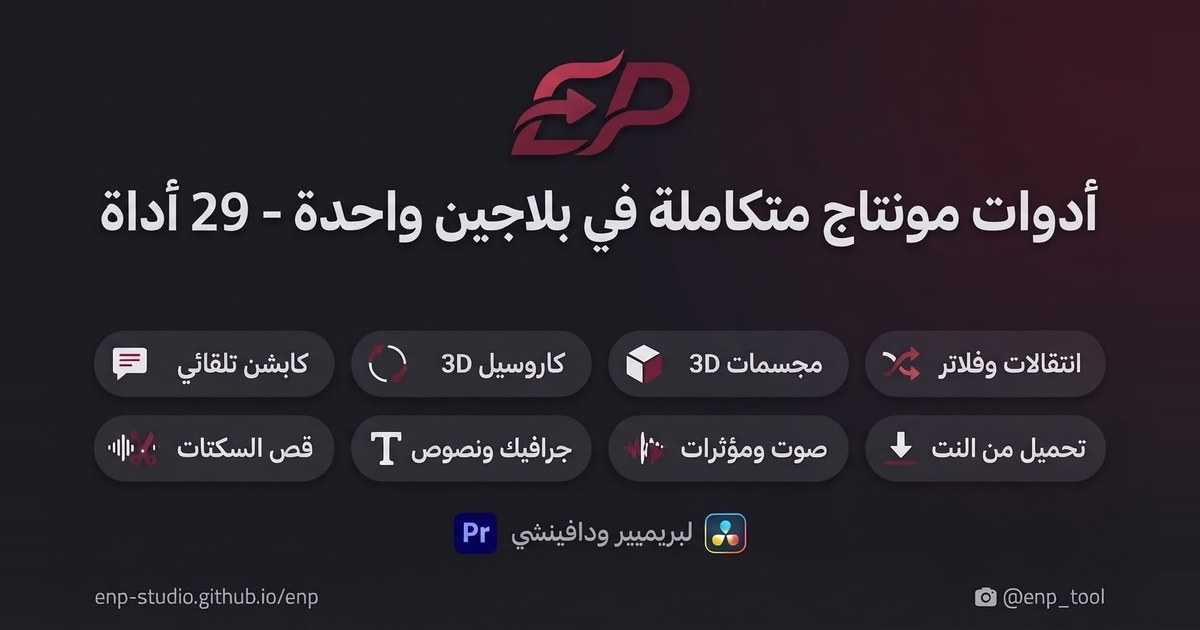
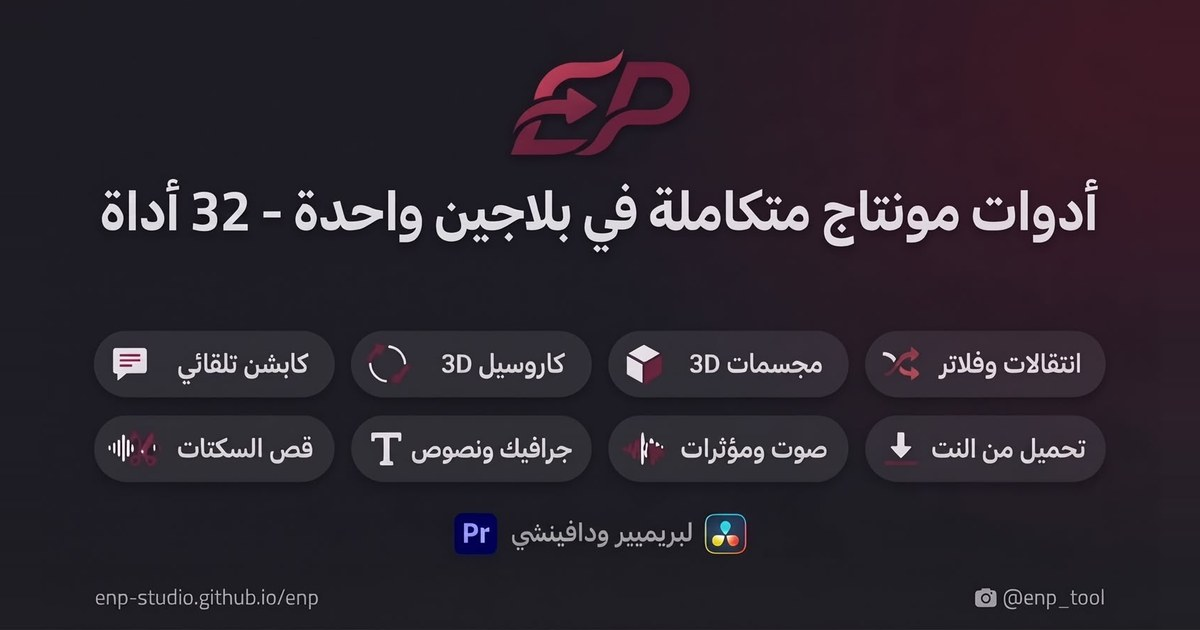
New link image (32 tools)

diff --git a/index.html b/index.html
@@ -5,7 +5,7 @@
 <meta name="viewport" content="width=device-width, initial-scale=1">
 <title>ENP — أدوات مونتاج جوه بريمير</title>
 <meta name="description" content="ENP: بانل واحدة جوه Adobe Premiere Pro و DaVinci Resolve فيها 32 أداة — كابشن تلقائي، مجسمات 3D وهولوجرام، تحميل فيديو من النت، سوشيال ولوار ثيرد، موجات صوت، Liquid Glass، أيقونات، انتقالات، فلاتر سينمائية، قص السكتات وتنضيف الصوت. عربي و English.">
-<meta name="keywords" content="ENP 3D objects, hologram premiere, download video premiere, lower third premiere, audio visualizer premiere, ENP DaVinci Resolve plugin, دافنشي, ENP 3D objects, hologram premiere, download video premiere, lower third premiere, audio visualizer premiere, ENP 3D objects, hologram premiere, download video premiere, lower third premiere, audio visualizer premiere, ENP 3D objects, hologram premiere, download video premiere, lower third premiere, audio visualizer premiere, ENP 3D objects, hologram premiere, download video premiere, lower third premiere, audio visualizer premiere, ENP 3D objects, hologram premiere, download video premiere, lower third premiere, audio visualizer premiere, ENP, ENP plugin, ENP premiere, بلاجين بريمير, اضافة بريمير, بلج ان بريمير, اكستنشن بريمير, premiere pro plugin, premiere pro extension, premiere plugin arabic, كابشن عربي بريمير, اوتو كابشن, قص السكتات, liquid glass premiere, ادوات مونتاج, ENP tool, ENP studio">
+<meta name="keywords" content="ENP 3D objects, hologram premiere, download video premiere, lower third premiere, audio visualizer premiere, ENP 3D objects, hologram premiere, download video premiere, lower third premiere, audio visualizer premiere, ENP DaVinci Resolve plugin, دافنشي, ENP 3D objects, hologram premiere, download video premiere, lower third premiere, audio visualizer premiere, ENP 3D objects, hologram premiere, download video premiere, lower third premiere, audio visualizer premiere, ENP 3D objects, hologram premiere, download video premiere, lower third premiere, audio visualizer premiere, ENP 3D objects, hologram premiere, download video premiere, lower third premiere, audio visualizer premiere, ENP 3D objects, hologram premiere, download video premiere, lower third premiere, audio visualizer premiere, ENP, ENP plugin, ENP premiere, بلاجين بريمير, اضافة بريمير, بلج ان بريمير, اكستنشن بريمير, premiere pro plugin, premiere pro extension, premiere plugin arabic, كابشن عربي بريمير, اوتو كابشن, قص السكتات, liquid glass premiere, ادوات مونتاج, ENP tool, ENP studio">
 <meta name="author" content="ENP Studio">
 <meta name="robots" content="index, follow, max-image-preview:large">
 <link rel="canonical" href="https://enp-studio.github.io/enp/">
@@ -16,14 +16,14 @@
 <meta property="og:url" content="https://enp-studio.github.io/enp/">
 <meta property="og:title" content="ENP — أدوات مونتاج جوه بريمير | ENP Plugin for Premiere Pro">
 <meta property="og:description" content="32 أداة جوه بريمير: جرافيك وألوان وانتقالات وكابشن وصوت — كله على جهازك. ENP plugin / extension for Adobe Premiere Pro & DaVinci Resolve.">
-<meta property="og:image" content="https://enp-studio.github.io/enp/og.jpg?v=292">
+<meta property="og:image" content="https://enp-studio.github.io/enp/og.jpg?v=2922">
 <meta property="og:image:width" content="1200">
 <meta property="og:image:height" content="630">
 <meta property="og:image:alt" content="ENP — Editing Power Tools for Adobe Premiere Pro">
 <meta name="twitter:card" content="summary_large_image">
 <meta name="twitter:title" content="ENP — أدوات مونتاج جوه بريمير | ENP Plugin for Premiere Pro">
 <meta name="twitter:description" content="32 أداة جوه بريمير: جرافيك، نص متحرك، كابشن تلقائي، صوت وانتقالات — كله على جهازك.">
-<meta name="twitter:image" content="https://enp-studio.github.io/enp/og.jpg?v=292">
+<meta name="twitter:image" content="https://enp-studio.github.io/enp/og.jpg?v=2922">
 <script type="application/ld+json">
 {
   "@context": "https://schema.org",
